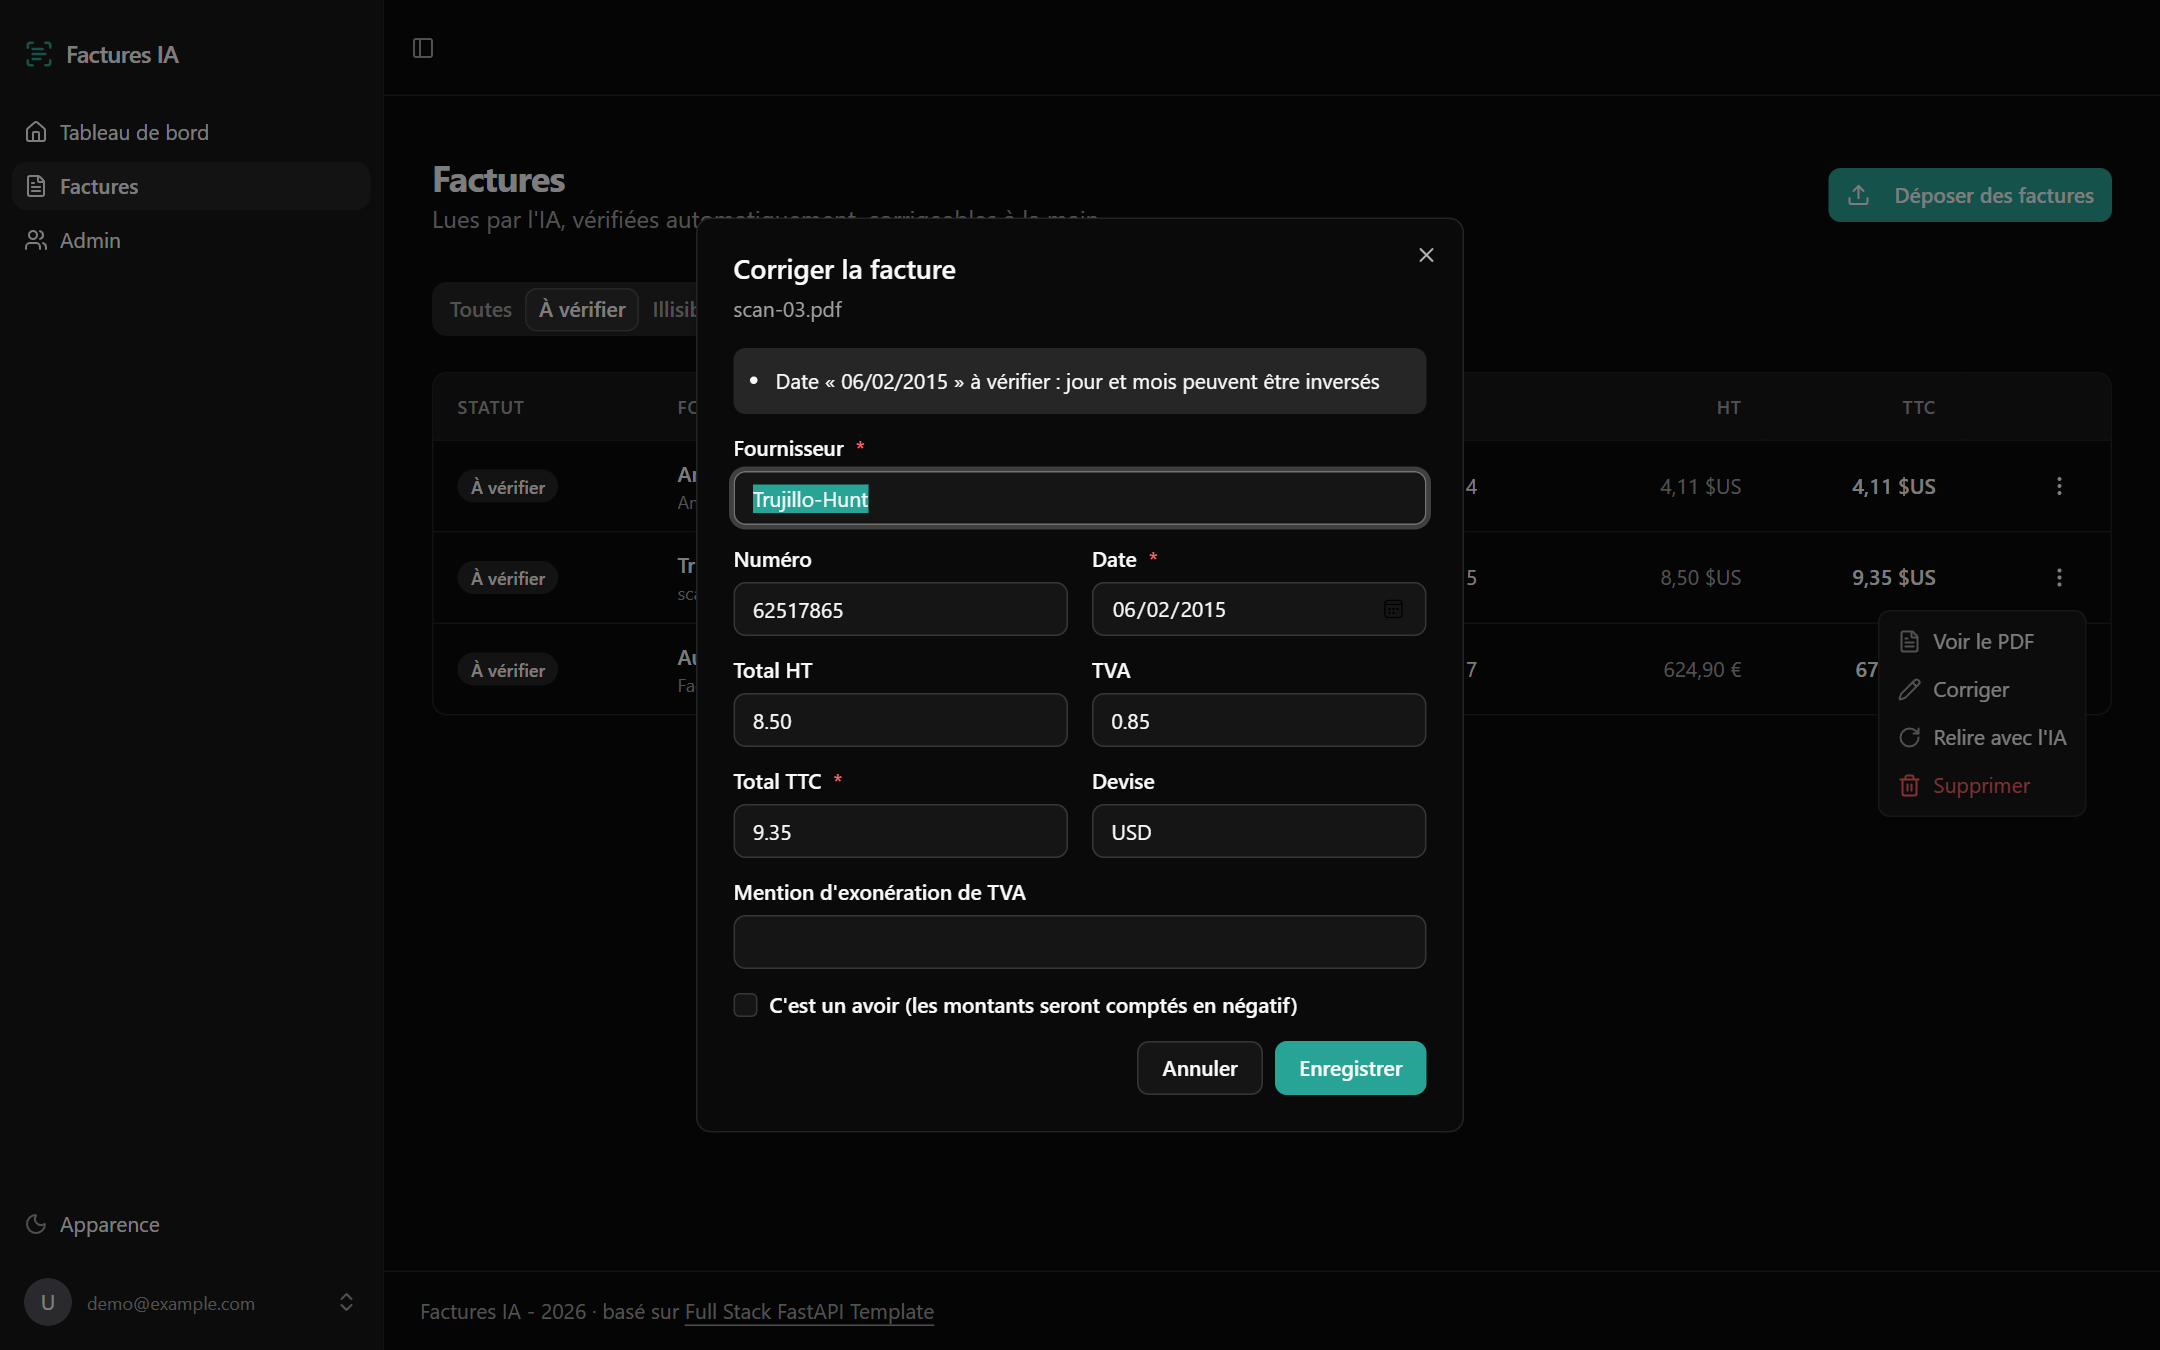
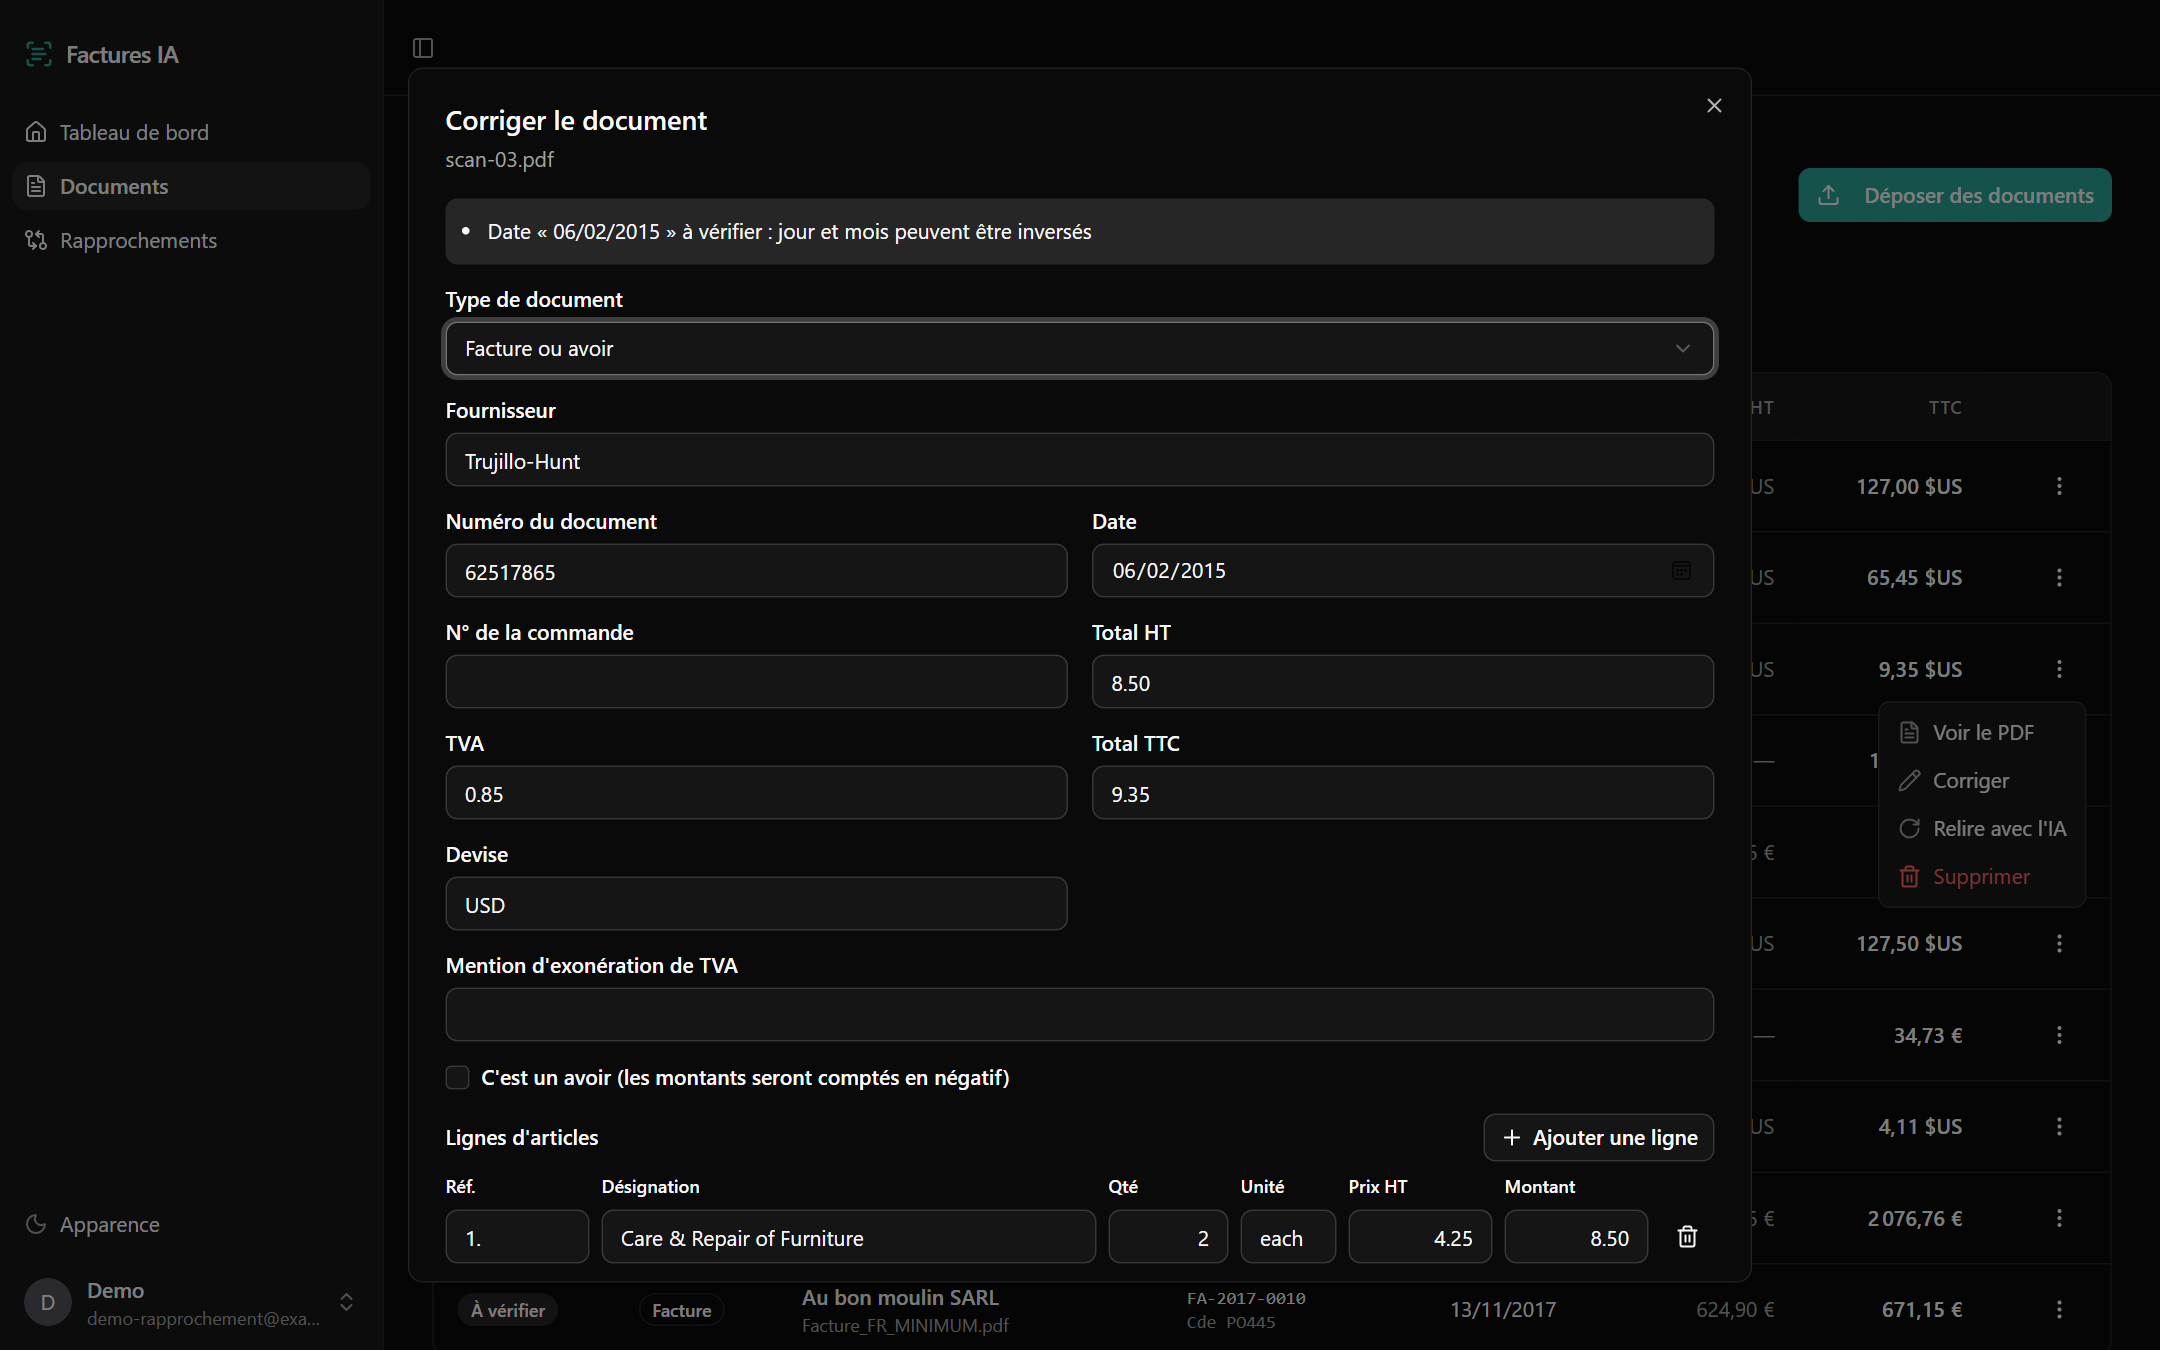
Captures à jour, README et affichage des quantités dans Corriger
Captures refaites sur un compte de démo rempli des 8 achats et de
29 factures publiques. Types SQLAlchemy corrigés pour mypy, quantités et
prix sans zéros inutiles dans la boîte Corriger.

diff --git a/frontend/src/components/Documents/EditDocument.tsx b/frontend/src/components/Documents/EditDocument.tsx
@@ -143,6 +143,9 @@ const EMPTY_LINE: LineData = {
 const toText = (value: string | number | null | undefined) =>
   value === null || value === undefined ? "" : String(value)
 
+const toNumberText = (value: string | number | null | undefined) =>
+  value === null || value === undefined ? "" : String(Number(value))
+
 const toValue = (value: string) => {
   const trimmed = value.trim().replace(",", ".")
   return trimmed === "" ? null : trimmed
@@ -176,9 +179,9 @@ const EditDocument = ({ document, onSuccess }: EditDocumentProps) => {
       lines: (document.lines ?? []).map((line) => ({
         reference: toText(line.reference),
         description: toText(line.description),
-        quantity: toText(line.quantity),
+        quantity: toNumberText(line.quantity),
         unit: toText(line.unit),
-        unit_price: toText(line.unit_price),
+        unit_price: toNumberText(line.unit_price),
         amount_excl_tax: toText(line.amount_excl_tax),
       })),
     } as FormData,

diff --git a/backend/app/services/processing.py b/backend/app/services/processing.py
@@ -143,11 +143,11 @@ def expire_stale(session: Session) -> None:
         select(Document).where(
             or_(
                 and_(
-                    Document.status == DocumentStatus.processing,
+                    col(Document.status) == DocumentStatus.processing,
                     since < now - STALE_AFTER,
                 ),
                 and_(
-                    Document.status == DocumentStatus.pending,
+                    col(Document.status) == DocumentStatus.pending,
                     since < now - QUEUED_TOO_LONG,
                 ),
             )
